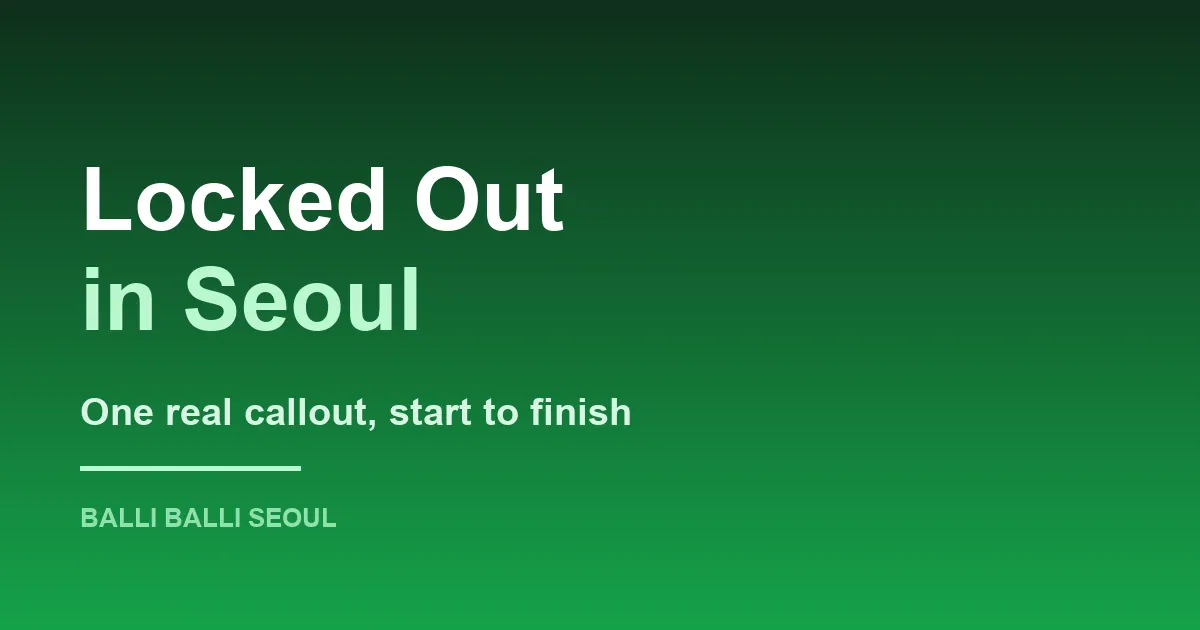
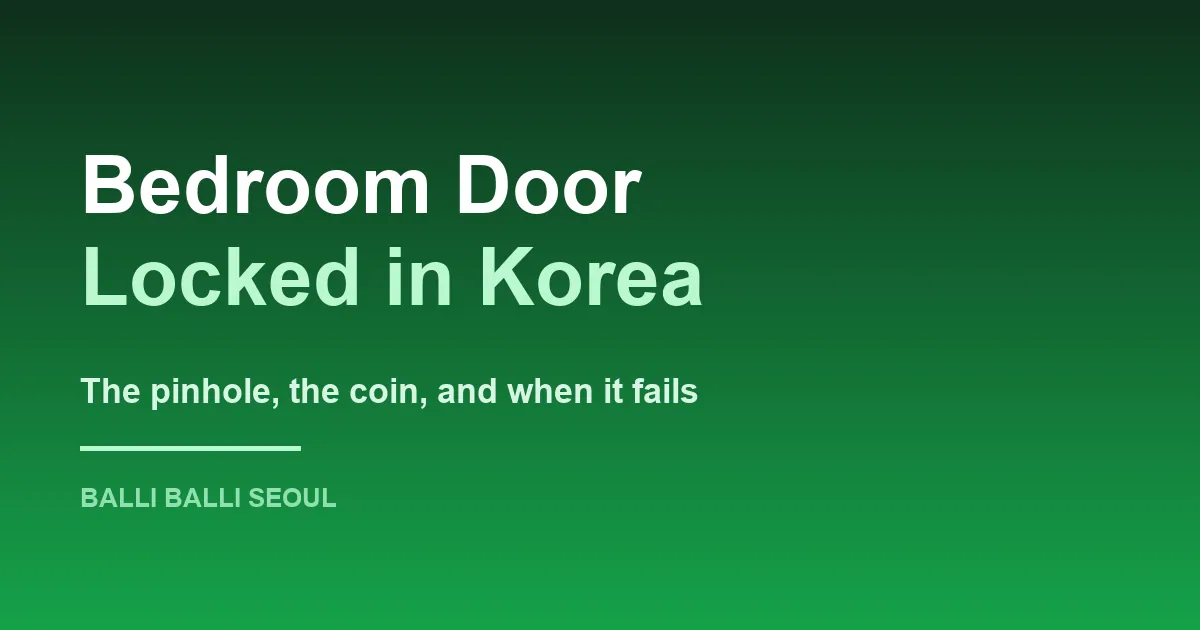
Correct the first callout: it was a bedroom door, not a front door
Published an hour ago describing someone shut out of their home, on an
ordinary front-door cylinder. It was neither. The door was an interior
bedroom one, and the point of the job is that it did not open the way
those normally do.

So the guide leads with what almost always works and costs nothing — the
pinhole takes a paperclip or a skewer, the slot takes a ₩100 coin, and
that is most bedroom doors in Korea solved in a minute. Then the card
trick and why a deadbolt defeats it. Only then the case we were called
to, where the room carried a real keyed cylinder with no emergency
release, which is what put a locksmith on the doorstep.

Adds the safety line that belongs in a piece about locked rooms: if a
child, a pet or a running hob is behind the door, 119 comes before any
locksmith. The WhatsApp template now asks whether the handle has a hole,
so the free answer can be given before anyone is dispatched. Log entry
corrected to match.

Claude-Session: https://claude.ai/code/session_01KjcKsxJK2cUnviuE5G9suT

Changed region(s): [[0.0617, 0.6032, 0.5858, 0.8444], [0.0617, 0.3921, 0.5858, 0.5429], [0.0617, 0.2413, 0.555, 0.3619]]

diff --git a/public/locksmith.html b/public/locksmith.html
@@ -509,7 +509,7 @@
               <tr>
                 <td>24 Aug 2026</td>
                 <td>Dobong-gu, Seoul</td>
-                <td><a href="/blog/locked-out-in-seoul-real-callout/" style="font-weight:700;color:var(--primary-dark);text-decoration:underline">Lockout — classic key lock, opened non-destructively</a></td>
+                <td><a href="/blog/locked-out-in-seoul-real-callout/" style="font-weight:700;color:var(--primary-dark);text-decoration:underline">Bedroom door — keyed lock, opened non-destructively</a></td>
                 <td style="text-align:right;font-weight:700">₩50,000</td>
               </tr>
             </tbody>

diff --git a/src/content/blog/locked-out-in-seoul-real-callout/index.md b/src/content/blog/locked-out-in-seoul-real-callout/index.md
@@ -1,126 +1,138 @@
 ---
-title: "Locked Out in Seoul: What a Real Callout Cost"
-description: "One job, start to finish — a classic lock in Dobong-gu opened in the evening for ₩50,000 all in. What happens when you call, and what they ask for."
+title: "Bedroom Door Locked in Korea? What to Try First"
+description: "Most Korean bedroom doors open with a coin or a thin rod through the pinhole. How, when it won't work, and what a locksmith cost for one that didn't."
 pubDate: 2026-08-25T18:15:00+09:00
 service: locksmith
 tags: ["locksmith", "locked-out", "seoul", "prices"]
 cover: "./cover.webp"
-coverAlt: "Typographic cover reading Locked Out in Seoul"
-coverCaption: "One job, start to finish"
+coverAlt: "Typographic cover reading Bedroom Door Locked in Korea"
+coverCaption: "The pinhole, and when it fails"
 draft: false
 ---
 
-Most guides tell you what a job might cost. This is one job that actually happened,
-with the real number at the end of it.
+The door to a room inside your own home has shut, the handle will not turn, and
+everything you need is on the other side of it. This is a smaller problem than being
+locked out of the building, and it is usually solved in about a minute — but only if
+you know where to look.
 
-On 24 August 2026 someone in Dobong-gu, in the north of Seoul, messaged us after
-being shut out of their home. Not a dead keypad — an ordinary mechanical lock, the
-kind still fitted to a great many Korean villas and older flats. Here is the whole
-thing, because knowing how the hour goes is most of what makes it bearable.
+## Try this first: the hole in the handle
 
-## What actually happened
+Most Korean interior doors have a **privacy lock**, not a real one. Its whole purpose
+is to stop someone walking in on you, and it is designed to be defeated from outside
+in an emergency. Look at the centre of the handle or the knob on the corridor side.
+You will usually find one of two things.
 
-They reached us on WhatsApp, then carried on in KakaoTalk. Both work; use whichever
-you already have open.
+**A small hole.** Push something thin and stiff straight into it, firmly, until you
+feel the mechanism give. A straightened paperclip, a bamboo skewer, the thin end of a
+chopstick, an earring hook. Not a cotton bud — it needs to be rigid. Some pop open
+instantly; some need you to push and turn the handle at the same time.
 
-The first questions were the boring ones that decide everything else: which district,
-what kind of lock, is anyone else on the deed, can you prove you live there. From a
-photo of the door it was clear this was a mechanical cylinder rather than a digital
-unit, which changes who gets sent and what tools they bring.
+**A slot.** Put a coin or a flathead screwdriver into it and turn, like a very large
+screw. A ₩100 coin fits most of them.
 
-We found a locksmith covering that part of the city, agreed a price and a time, and
-came back with one number in the chat. Nobody was dispatched until that was accepted.
-The locksmith arrived in the window we had given, checked ID, opened the door without
-drilling it, and that was the job.
+That is genuinely the whole trick, and it works on the large majority of bedroom and
+bathroom doors in Korean flats. If you have a hole or a slot on the outside, you
+almost certainly do not need to call anyone.
 
-**Total: ₩50,000**, which included our fee for the calls and the scheduling. No
-surcharge for the hour. The figure in the chat was the figure at the door.
+## The card trick, and when it works
+
+If there is no hole and no slot, look at the gap along the door frame.
+
+If you can see a **spring latch** — the angled metal tongue that clicks shut when the
+door closes — a stiff card can sometimes push it back. Slide the card into the gap
+above or below the latch, angle it towards the sloped side, and push while pressing
+the door. Use a card you are prepared to ruin.
+
+It only works on a latch. If the door is held by a **deadbolt**, a straight square
+bolt with no slope to it, nothing will slide it back and pushing harder just bends
+your card.
+
+## When none of that works
+
+Sometimes a bedroom door is not fitted with a privacy lock at all. Rooms in shared
+houses, converted rooms, rooms a landlord has re-fitted, and offices often carry a
+proper keyed cylinder — the same kind of lock you would put on a front door. From the
+outside it can look almost identical. The difference is that there is no hole, no
+slot, and no emergency release, because it was never designed to be opened by the
+person standing outside.
+
+That is the job we were called to on 24 August 2026, in Dobong-gu in the north of
+Seoul. Someone messaged us on WhatsApp, then carried on in KakaoTalk: a bedroom door
+that had locked, and a lock that a coin or a chopstick was never going to open.
+
+From a photo of the handle it was clear this was not a privacy latch. We found a
+locksmith covering that part of the city, agreed a price and a time, and came back
+with one number in the chat. Nobody was dispatched until that was accepted. The
+locksmith arrived in the window we had given, checked that they lived there, and
+opened the door without damaging it.
+
+**Total: ₩50,000**, including our fee for the calls and the scheduling. No surcharge
+for the hour. The figure in the chat was the figure at the door.
 
 That job is the first row in our [service log](/locksmith#log), where every job we
 arrange goes up once it is finished — date, district, work, and the all-in total.
 
-## What it cost, and why it was at the low end
+## What decides the price
 
-₩50,000 is at the cheap end of a Seoul lockout, and it was a simple one: a standard
-mechanical cylinder, no damage, no replacement, at an hour that carried no
-out-of-hours premium.
+₩50,000 was at the cheap end. An interior door usually is: the lock is lighter than a
+front-door cylinder and the locksmith is not working against a security fitting.
 
-What pushes the number up, roughly in order:
+What pushes it up, roughly in order:
 
-- **The lock type.** A high-security or dimple cylinder takes longer and costs more
-  than a standard one. A digital lock is its own category again.
-- **The hour.** Many Korean locksmiths charge a night and weekend premium. Ours
-  didn't on this job, but assume it exists and ask.
-- **Whether it opens.** Non-destructive picking is always tried first. If the lock
-  cannot be opened that way it gets drilled, and a drilled lock has to be replaced —
-  which is a new part plus fitting, not a callout fee.
+- **Whether it opens without damage.** Picking is always tried first. If the lock has
+  to be drilled it must then be replaced, and that is a part plus fitting rather than
+  a callout.
+- **The hour.** Many Korean locksmiths add a night and weekend premium. Ours did not
+  on this job, but assume it exists and ask before you agree.
+- **The lock itself.** A cheap interior cylinder and a high-security one are not the
+  same job.
 
-A range for the usual jobs is on the
-[locksmith service page](/locksmith), and the log next to it shows what individual
-jobs came to.
+Guide ranges for the usual work are on the [locksmith page](/locksmith), and the log
+beside them shows what individual jobs actually came to.
 
-## Classic locks are not keypads
+> **Stuck outside a room right now?** Send us a photo of the handle on
+> [WhatsApp](https://wa.me/821075191282?text=Hi%20Balli%20Balli%21%20I%27m%20locked%20out%20of%20a%20room.%0A%0A-%20Name%3A%0A-%20District%3A%0A-%20Is%20there%20a%20small%20hole%20or%20slot%20in%20the%20handle%3F%3A%0A-%20Can%20you%20prove%20you%20live%20there%3F%3A)
+> — if it has a pinhole we will tell you how to open it yourself and charge you
+> nothing. If it doesn't, we come back with one price and a time, in English, before
+> anyone is sent.
 
-Korea is full of digital locks, so most advice you find assumes one. If your door has
-a key, some of that advice does not apply to you.
+## If someone or something is inside
 
-**There is no battery trick.** With a dead keypad you can often bring the lock back
-to life for long enough to type your code — the 9V-battery method covered in
-[what to do when your keypad lock dies](/blog/keypad-door-lock-dead-locked-out-seoul/).
-A mechanical lock has nothing to revive. It is a physical problem with a physical
-answer.
+A locked bedroom stops being a minor annoyance when there is a child, a pet, a
+running tap or something on the stove behind it. Say that in the first message. It
+changes what gets recommended and how fast — and if it is a genuine safety emergency,
+**119** is the right call before any locksmith, and they have English interpreters.
 
-**Picking is normal, and it is the good outcome.** A competent locksmith will open a
-standard cylinder without damaging it, usually in minutes. Drilling is the fallback,
-not the opening move — and if someone reaches for a drill first, ask why.
+## They will still ask you to prove you live there
 
-**A key snapped in the lock is a different job** from a lock that simply will not
-turn, and it is worth saying which one you have when you message. Extraction
-sometimes saves the cylinder and sometimes doesn't.
+Even for an interior door. Photo ID plus something tying you to the address — your
+lease, post with your name on it, or the building office confirming. It is the only
+thing standing between someone's home and anyone who says it is theirs, and a
+locksmith who skips it is a locksmith to avoid.
 
-**Building management may hold a key.** In a serviced building the 관리사무소 is
-worth trying before anyone is called, and it costs nothing. In a villa or an older
-low-rise, usually there is nobody to ask, which is why these callouts happen at all.
-
-> **Standing outside your door right now?** Message us on
-> [WhatsApp](https://wa.me/821075191282?text=Hi%20Balli%20Balli%21%20I%27m%20locked%20out.%0A%0A-%20Name%3A%0A-%20District%3A%0A-%20Key%20lock%20or%20keypad%3A%0A-%20Can%20you%20prove%20you%20live%20there%3F%3A)
-> with your district and a photo of the door. We come back with one price and a time,
-> in English, before anyone is sent. Asking costs nothing.
-
-## They will ask you to prove you live there
-
-Every legitimate locksmith in Korea will, and a foreign tenant should expect the
-question rather than be offended by it. Photo ID plus something tying you to the
-address: your lease, post with your name on it, or your landlord or building office
-confirming by phone.
-
-This is the only thing standing between your front door and anyone who says it is
-theirs. If a locksmith is happy to open a door for someone who cannot show any of
-that, the problem is the locksmith.
-
-Have your alien registration card ready. If your documents are all inside the flat
-you are locked out of, say so early — it is a solvable problem, but it is solved by
-the building office or the landlord, not by skipping the check.
+If your documents are behind the locked door, say so early. It is solvable, usually
+through the building office or your landlord, but it is solved rather than skipped.
 
 ## The Korean part
 
-None of this is complicated. It is just conducted entirely in Korean, at speed, while
-you are standing in a corridor.
+The pinhole trick needs no Korean at all, which is why it is worth trying first.
 
-The awkward part is not the lock; it is being asked three questions about lock types
-you have no vocabulary for, then being quoted a number you cannot sanity-check, by
-someone who found you through a sticker in a lift. That is the gap we sit in: we make
-the calls, agree the price in writing first, and stay on the chat until the door is
-open.
+Everything after it does. You end up describing a handle you have no vocabulary for,
+to someone who quotes a number you cannot sanity-check, found through a sticker in a
+lift. That is the gap we sit in: we look at the photo, tell you whether this is a
+one-minute fix or a callout, agree the price in writing first, and stay on the chat
+until the door is open.
 
 ## Get it sorted
 
-If you are locked out now, message us with your district and a photo of the door and
-we will come back with a price and a time. If you are reading this in advance, the
-useful preparation is small: know whether your lock takes a key or a code, know
-whether your building office holds a spare, and keep one document with your name and
-address somewhere that is not inside the flat.
+Check the outside of the handle before anything else. A hole means a paperclip; a
+slot means a coin; neither means it is a real lock and someone has to come.
 
-The [locksmith service page](/locksmith) has the guide ranges and the running log of
-what real jobs came to. We arrange the locksmith and handle the Korean side; the work
-itself is done by the independent local pro we send, and their charge is theirs.
+If it comes to that, message us with your district and a photo of the handle. The
+[locksmith page](/locksmith) carries the guide ranges and the running log of what
+real jobs cost. We arrange the locksmith and handle the Korean side — the work is
+done by the independent local pro we send, and their charge is theirs.
+
+For a front door rather than a bedroom one, the digital-lock guides are more use:
+[what to do when your keypad lock dies](/blog/keypad-door-lock-dead-locked-out-seoul/)
+and [what a beeping door lock means](/blog/door-lock-beeping-korea/).
